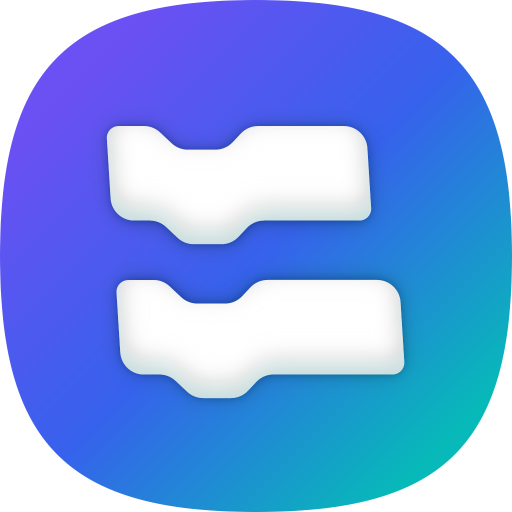
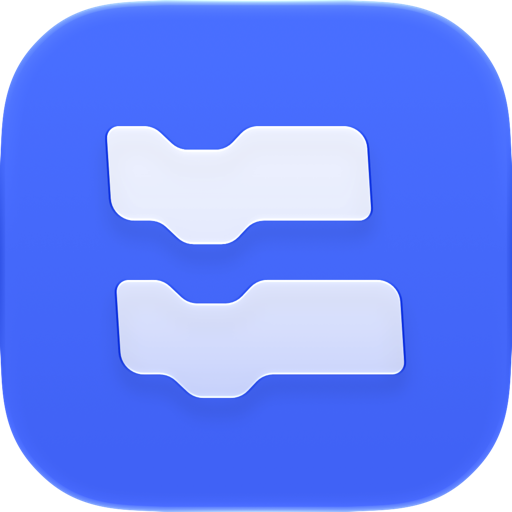
[feat] 更新网站及应用图标

diff --git a/vite.config.js b/vite.config.js
@@ -51,11 +51,13 @@ export default defineConfig({
           {
             src: 'boxy.png',
             sizes: '512x512',
-            purpose: 'any maskable'
+            type: 'image/png',
+            purpose: 'any'
           },
           {
             src: 'favicon.ico',
-            sizes: '256x256'
+            sizes: '16x16 32x32 48x48 64x64 128x128 256x256',
+            type: 'image/x-icon'
           }
         ]
       }

diff --git a/index.html b/index.html
@@ -3,6 +3,7 @@
   <head>
     <meta charset="UTF-8" />
     <link rel="icon" href="./src/assets/boxy.png" />
+    <link rel="apple-touch-icon" href="./src/assets/boxy.png" />
     <meta name="description" content="Boxy 是一款基于 Google Blockly 的图形化代码编辑器。" />
     <meta name="viewport" content="width=device-width, initial-scale=1.0" />
     <meta name="theme-color" content="#4062f6" />
